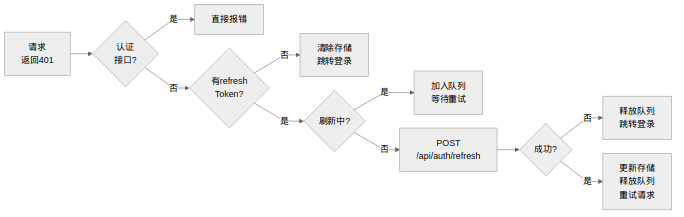
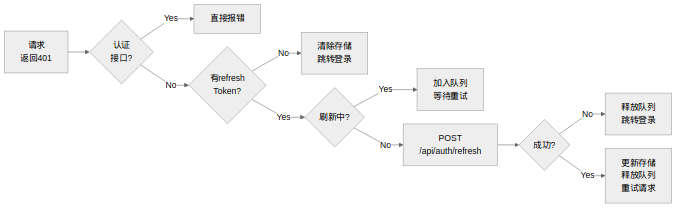
docs: 图4-1加分层标注, 流程图是/否改Yes/No, 搜索图改数据流样式, 4.3补充索引清单表

diff --git a/docs/第四章 系统详细设计与实现.md b/docs/第四章 系统详细设计与实现.md
@@ -116,7 +116,21 @@ notification_message 表存储通知消息，由通知服务管理。
 | is_read | BOOLEAN | 非空，默认 false | 是否已读 |
 | created_at | DATETIME | 非空 | 创建时间 |
 
-除各表主键的聚簇索引和上述唯一约束自动创建的唯一索引外，JPA 的 ddl-auto:update 机制会根据实体类的 @Column 注解中的 unique=true 属性自动为 user_account.username 和 forum_section.name 创建唯一索引。forum_post 表的 section_id 字段在按分区筛选帖子列表时作为查询条件使用，post_comment 表的 post_id 字段在加载帖子评论列表时作为查询条件使用，这两个字段在数据量增长后可考虑手动添加普通索引以优化查询性能。
+系统数据库中实际使用的索引如表 4-1 所示。各表主键（id 列）均为自增主键，MySQL 自动为其创建聚簇索引。JPA 的 ddl-auto:update 机制根据实体类中 @Column(unique=true) 注解自动为 user_account.username 和 forum_section.name 创建唯一索引。post_like 表通过 @UniqueConstraint 注解显式定义了名为 uk_post_like_post_user 的联合唯一约束，约束列为 (post_id, user_id)，MySQL 自动为其创建联合唯一索引。forum_post 表的 section_id 字段在按分区筛选帖子列表时作为查询条件使用，post_comment 表的 post_id 字段在加载帖子评论列表时作为查询条件使用，这两个字段在数据量增长后可考虑手动添加普通索引以优化查询性能。
+
+表 4-1 系统数据库索引清单
+
+| 表名 | 索引名称 | 索引类型 | 索引列 | 创建方式 |
+|------|--------|---------|--------|---------|
+| user_account | PRIMARY | 聚簇索引 | id | 自增主键自动创建 |
+| user_account | uk_username | 唯一索引 | username | @Column(unique=true) |
+| forum_section | PRIMARY | 聚簇索引 | id | 自增主键自动创建 |
+| forum_section | uk_name | 唯一索引 | name | @Column(unique=true) |
+| forum_post | PRIMARY | 聚簇索引 | id | 自增主键自动创建 |
+| post_comment | PRIMARY | 聚簇索引 | id | 自增主键自动创建 |
+| post_like | PRIMARY | 聚簇索引 | id | 自增主键自动创建 |
+| post_like | uk_post_like_post_user | 联合唯一索引 | (post_id, user_id) | @UniqueConstraint |
+| notification_message | PRIMARY | 聚簇索引 | id | 自增主键自动创建 |
 
 4.4 安全设计
 
